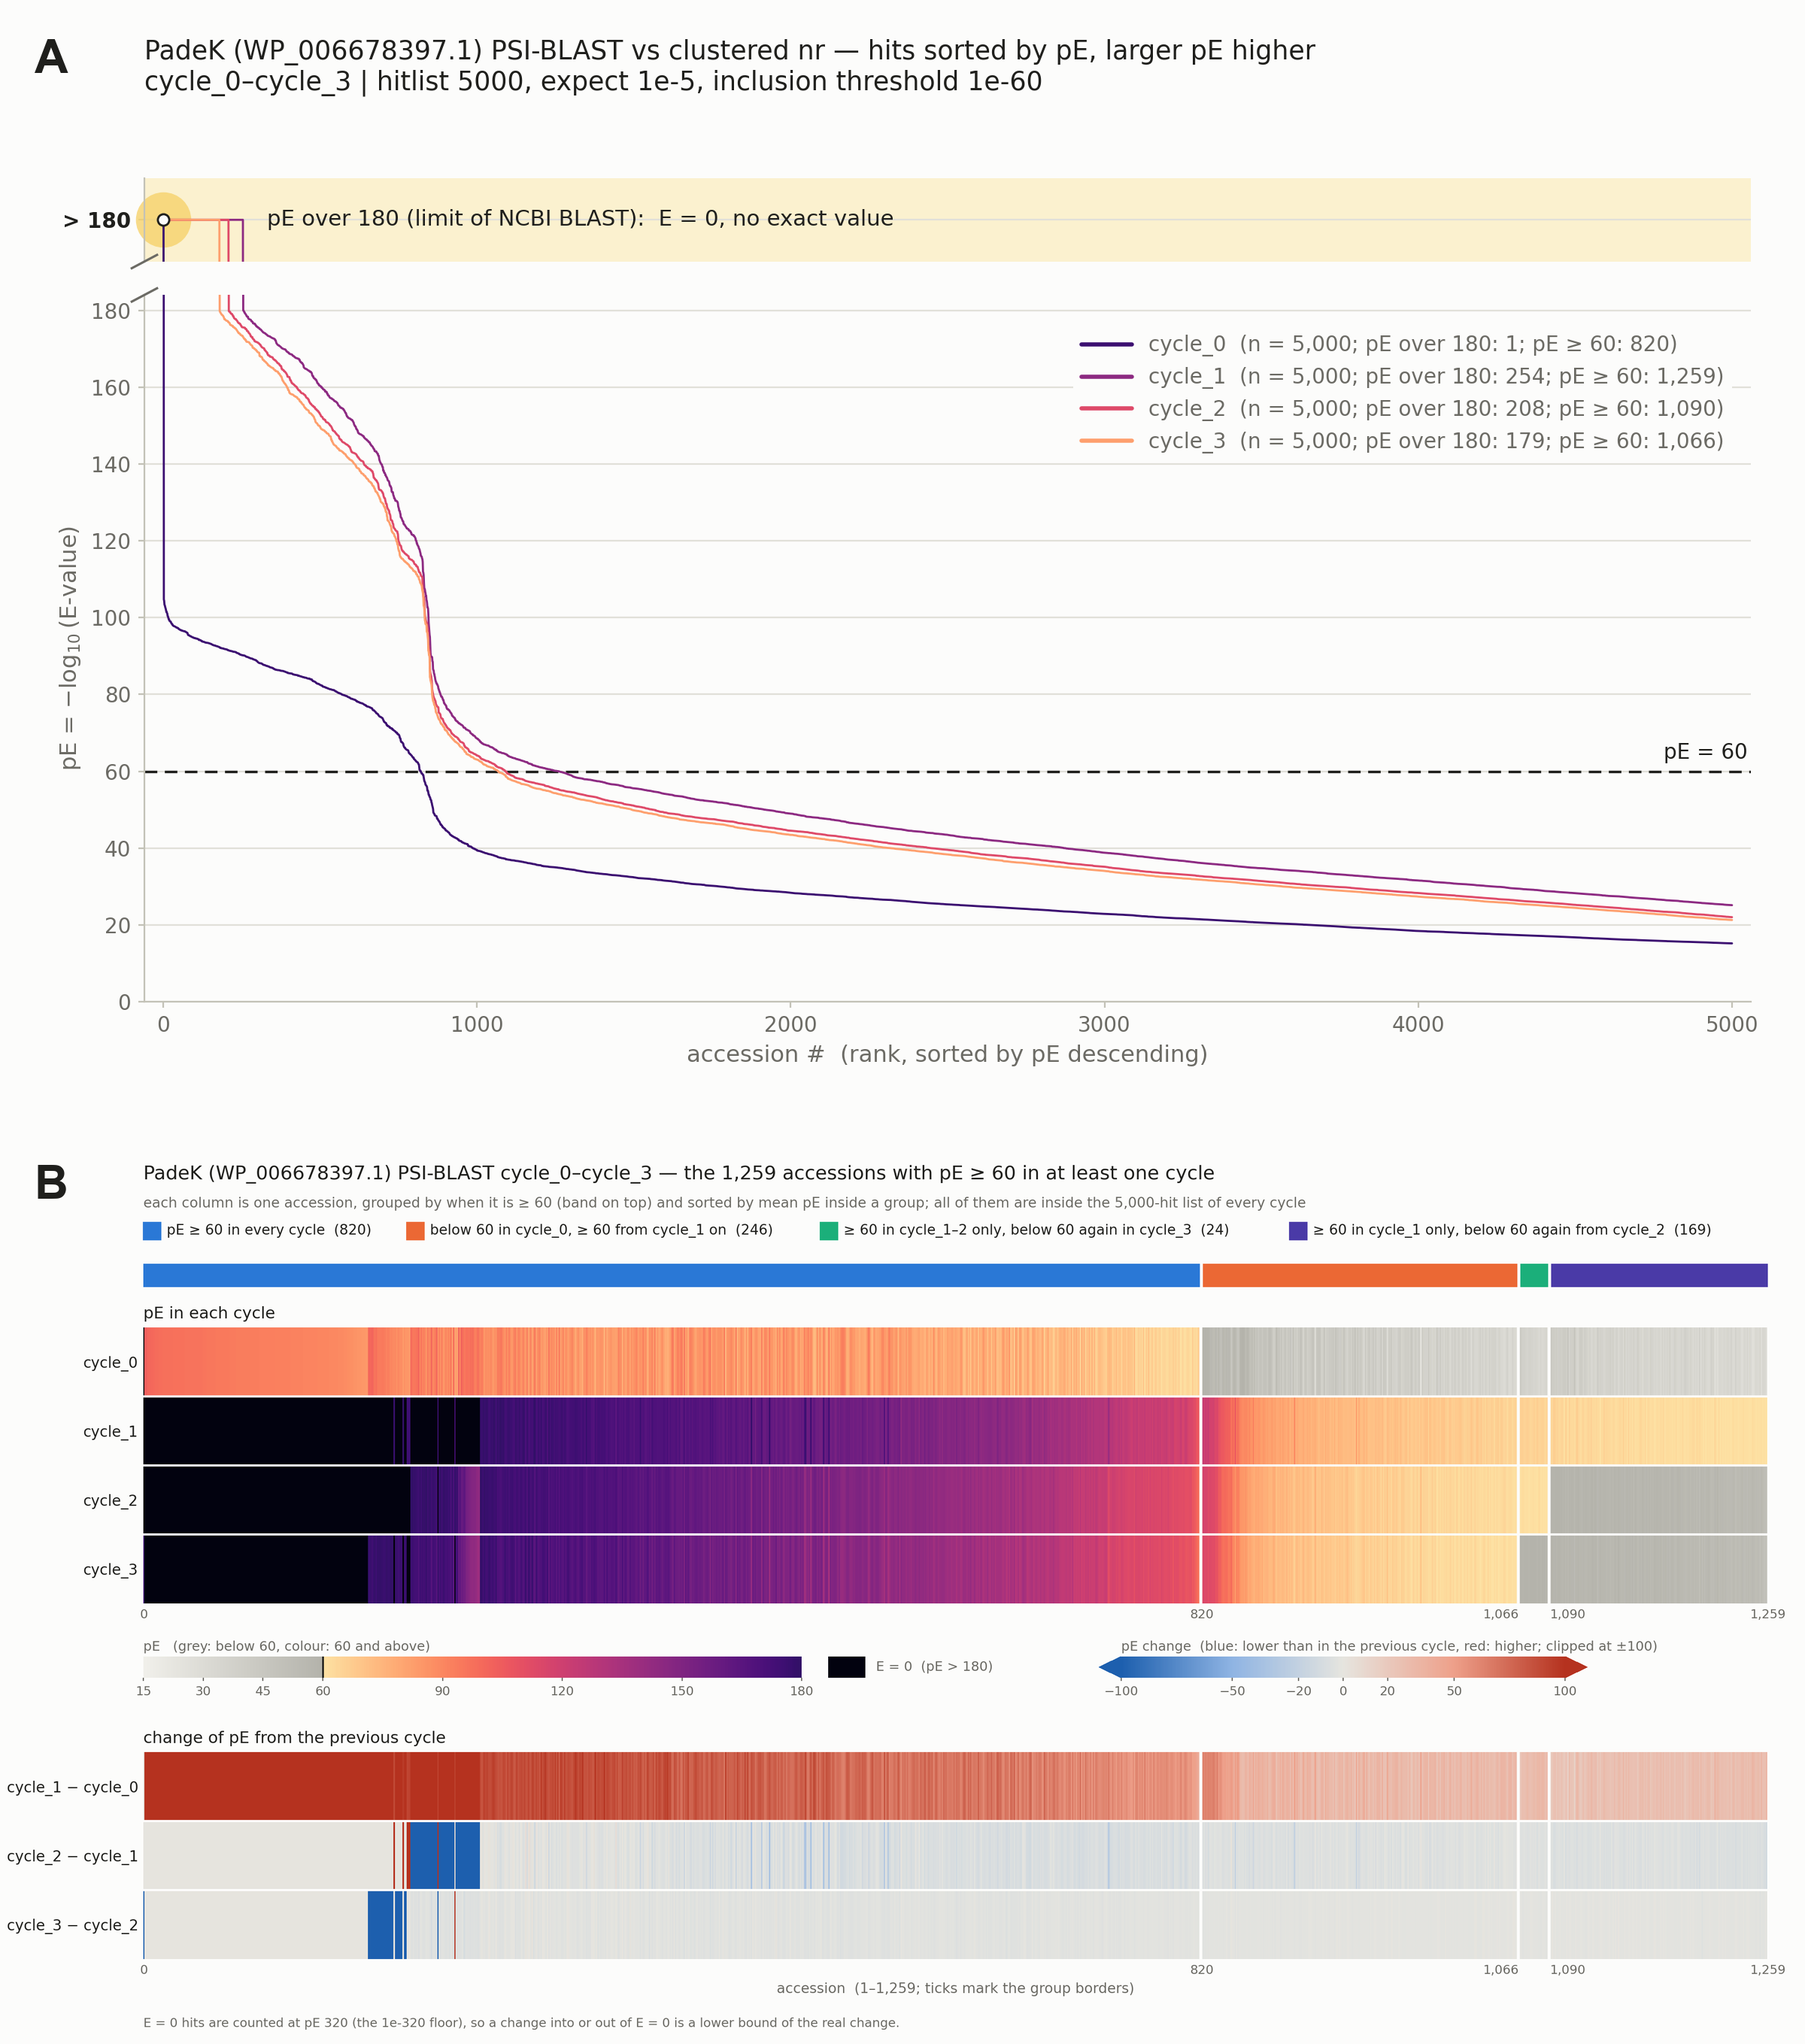
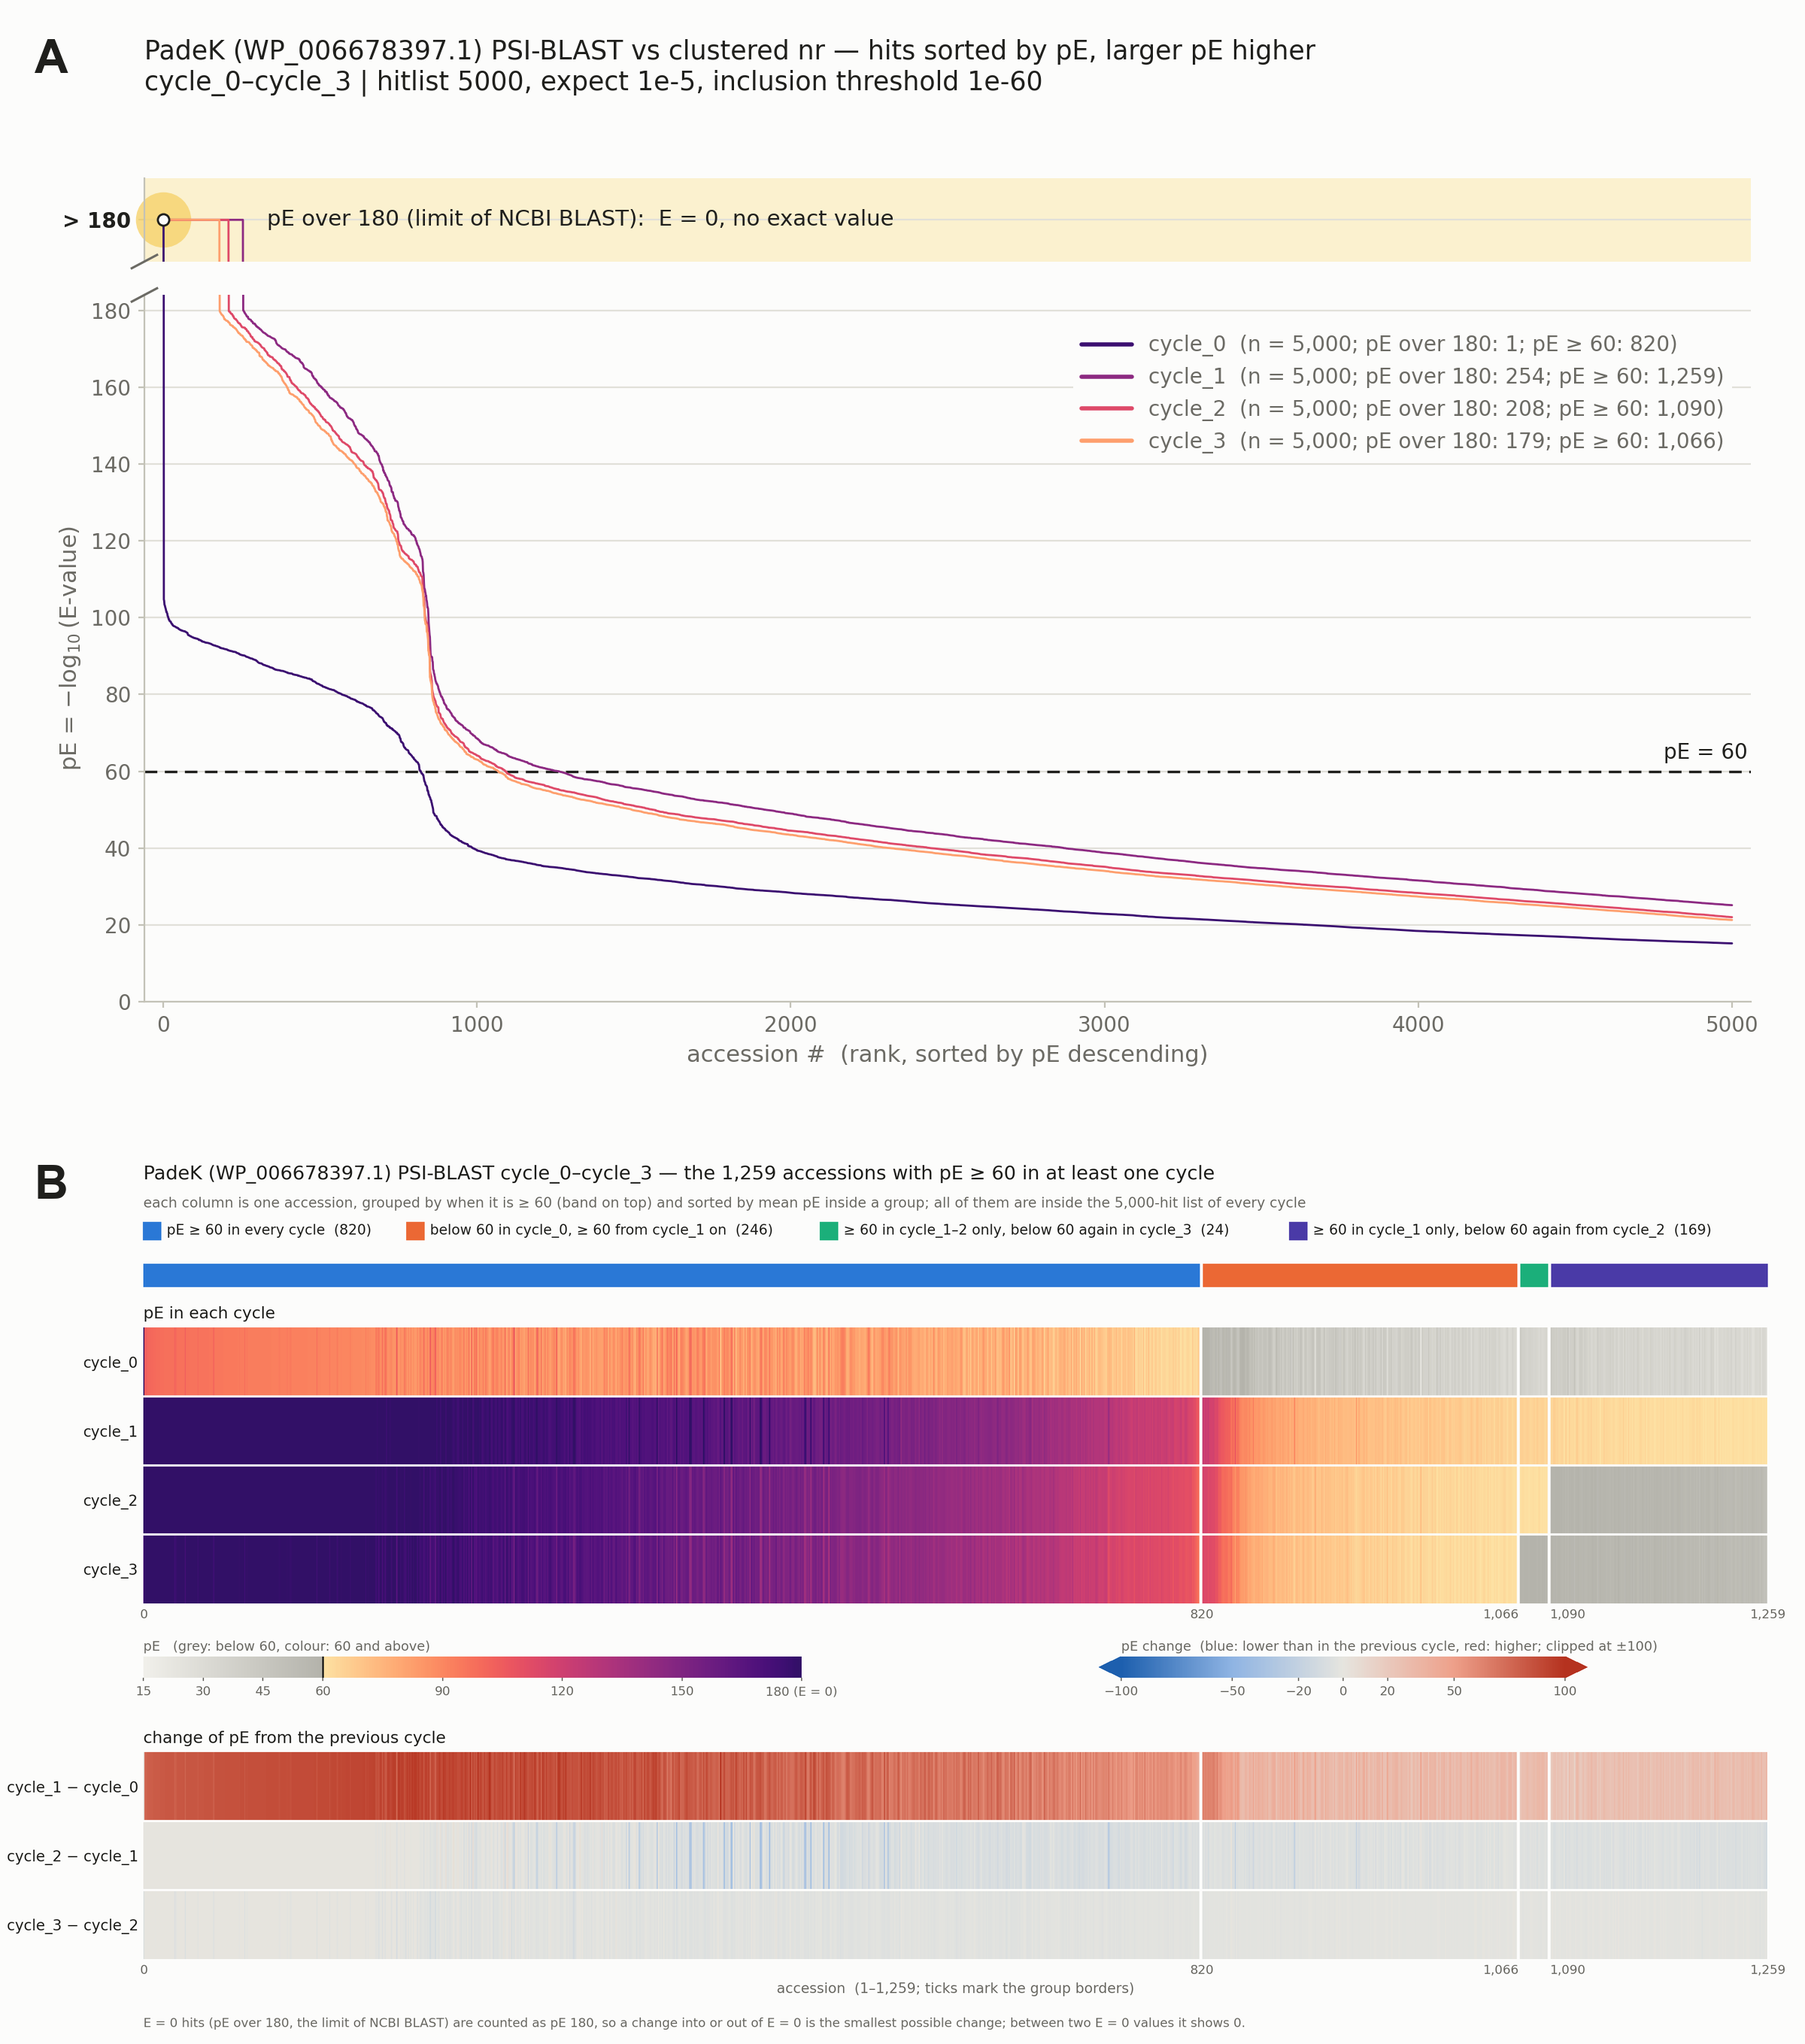
Replace the heatmap in the walkthrough's Fig 8B
The new heatmap counts E = 0 hits as pE 180, the reporting limit of
NCBI BLAST, so its pE changes match panel A and Fig 7.

Claude-Session: https://claude.ai/code/session_01HMdVoXmXAhmK9qQvbbqQRA

diff --git a/_posts/2026-10-11-bioinformatics-walkthrough.md b/_posts/2026-10-11-bioinformatics-walkthrough.md
@@ -155,7 +155,7 @@ Note: It is not true that the accessions in the same step have the same
 enzyme chemistry or biochemical function. The second bullet considers the
 "possibility" of being similar, not the similarity itself.
 
-![Two panels. Panel A is a line plot of four PSI-BLAST cycles of PadeK against the clustered nr database, each with 5,000 accessions ranked by pE, and a dashed line at the inclusion threshold, pE 60. Hits with E = 0 sit in a band above pE 180, the reporting limit of NCBI BLAST: 1 in cycle 0, 254 in cycle 1, 208 in cycle 2 and 179 in cycle 3. Cycle 0 is the BLASTP curve. In cycles 1 to 3 the curves fall from 180 to about 120, drop steeply near accession 850, and nearly coincide. Panel B shows heatmaps of the 1,259 accessions that reach pE 60 in at least one cycle, in four groups: 820 at or above 60 in every cycle, 246 below 60 only in cycle 0, 24 at or above 60 only in cycles 1 and 2, and 169 at or above 60 only in cycle 1. The upper heatmap gives pE in each cycle and the lower one the change from the previous cycle: nearly every accession rises from cycle 0 to cycle 1, and in later cycles small blocks of top hits leave the E = 0 band](/assets/img/bioinformatics-walkthrough/psi-blast-padek.png){: w="2400" h="2718" }
+![Two panels. Panel A is a line plot of four PSI-BLAST cycles of PadeK against the clustered nr database, each with 5,000 accessions ranked by pE, and a dashed line at the inclusion threshold, pE 60. Hits with E = 0 sit in a band above pE 180, the reporting limit of NCBI BLAST: 1 in cycle 0, 254 in cycle 1, 208 in cycle 2 and 179 in cycle 3. Cycle 0 is the BLASTP curve. In cycles 1 to 3 the curves fall from 180 to about 120, drop steeply near accession 850, and nearly coincide. Panel B shows heatmaps of the 1,259 accessions that reach pE 60 in at least one cycle, in four groups: 820 at or above 60 in every cycle, 246 below 60 only in cycle 0, 24 at or above 60 only in cycles 1 and 2, and 169 at or above 60 only in cycle 1. The upper heatmap gives pE in each cycle, with E = 0 hits counted as pE 180, and the lower one the change from the previous cycle: nearly every accession rises from cycle 0 to cycle 1, and later cycles change little](/assets/img/bioinformatics-walkthrough/psi-blast-padek.png){: w="2400" h="2718" }
 _**Fig 8**. PSI-BLAST result of PadeK. (A) pE of the hits in each cycle, ranked; the dashed line is the inclusion threshold. (B) The 1,259 accessions with pE ≥ 60 in at least one cycle: pE in each cycle (top) and its change from the previous cycle (bottom)._
 
 - One can control the E-value threshold for PSSM inclusion of the next
